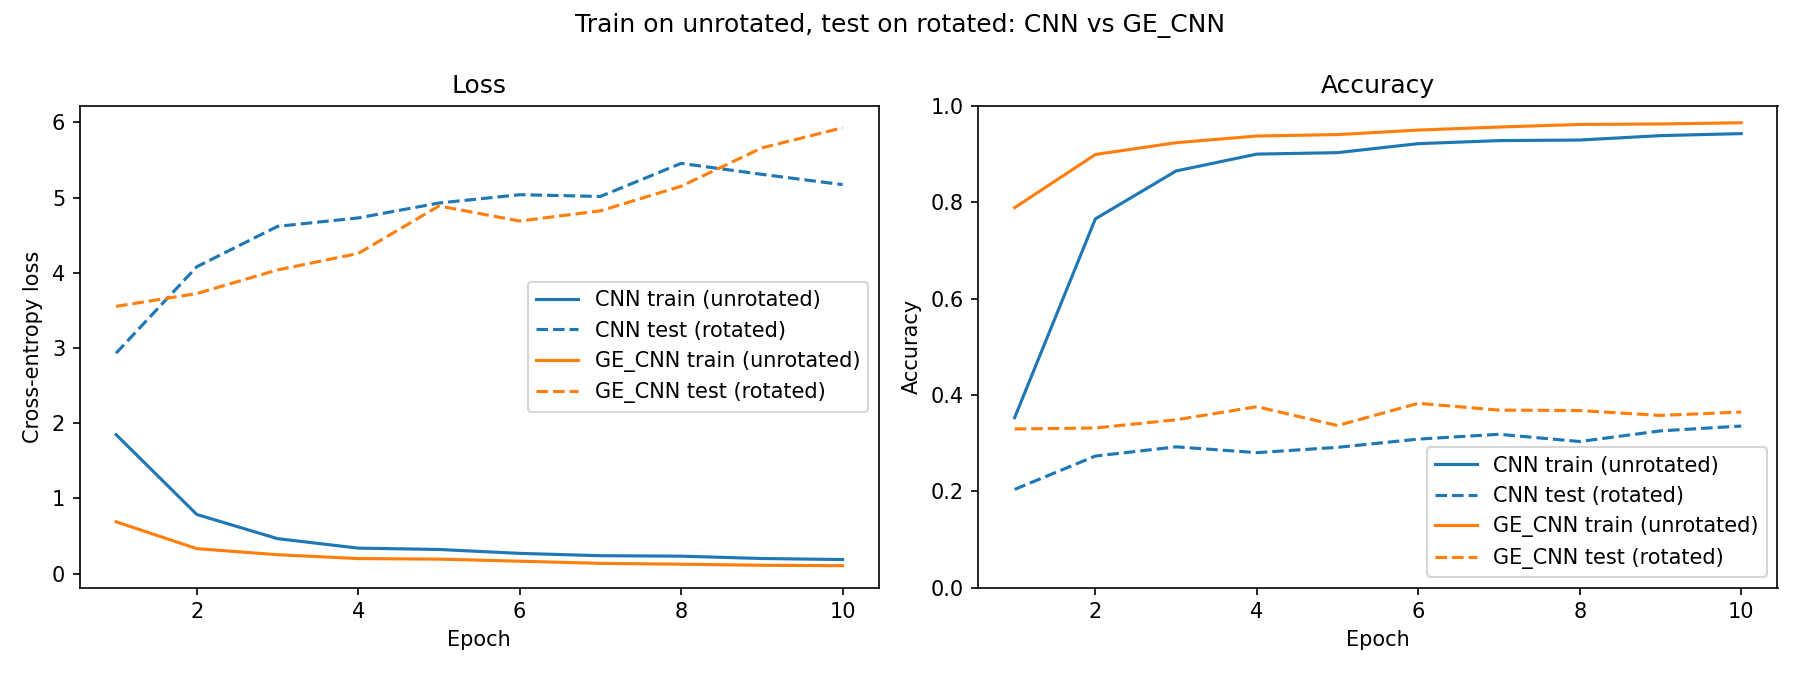
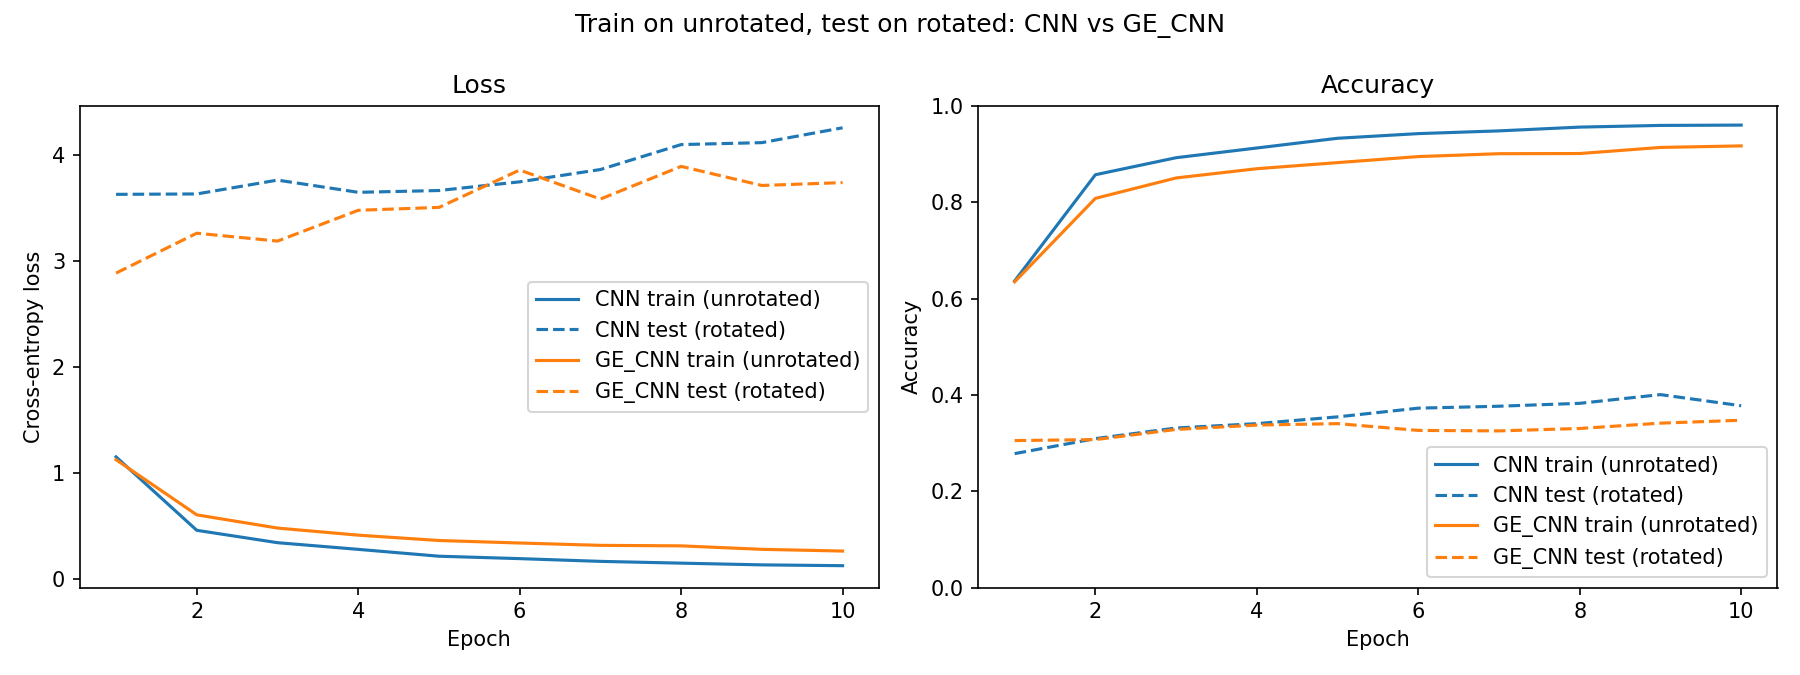
storing to retrieve from main

diff --git a/models/NN_layers.py b/models/NN_layers.py
@@ -50,12 +50,12 @@ def fourier_basis(kernel_size: int, l: int, plot: bool = False) ->  list:
         if l_ == 0:
             kernel = transform(np.ones((n,n)))
         else:
-            kernel = transform(np.exp(1j* l_*angle_map))
-        # kernel_sin = transform(np.sin(l_*angle_map))
-        # kernel_cos = transform(np.cos(l_*angle_map))
+            harmonic = transform(np.exp(1j* l_*angle_map))
+        #I center are they undefined, we set them to 0
+        harmonic[n // 2, n//2] = 0
+        kernel = transform(harmonic)
         basis.append(kernel.to(torch.complex64))
-        # basis.append(kernel_sin)
-        # basis.append(kernel_cos)
+        
         
     if plot: # plots the non-constant basis functions
         #OBS imshow uses rows downwards. We therefore transpose the matrix before plotting.
@@ -231,10 +231,7 @@ class ProjectionLayer(nn.Module):
         self.out_features = out_features
         self.bias = bias
         self.len_basis = l*2 + 1
-        self.lin = nn.LazyLinear(
-                self.out_features,
-                bias=self.bias
-            )
+        self.lin = nn.LazyLinear(self.out_features, bias=self.bias)
         
         
     def forward(self,x):
@@ -242,13 +239,7 @@ class ProjectionLayer(nn.Module):
         x_invariant = torch.abs(x).flatten(start_dim=1) # tager normen og laver til array/flattener
 
         return self.lin(x_invariant)
-        #x_invariant = x[:, self.l::self.len_basis,:,:]
-        #x_pooled = x_invariant.mean(dim = (2,3))
-        #x_pooled = torch.abs(x_pooled).to(torch.float32)
-        
-        
-        out = self.lin.forward(x_invariant)
-        return out
+
 """class GroupEquivariantReLU(nn.Module):
     
     Naive norm-gate baseline. Ækvivariant, men degenereret: tager normen over
